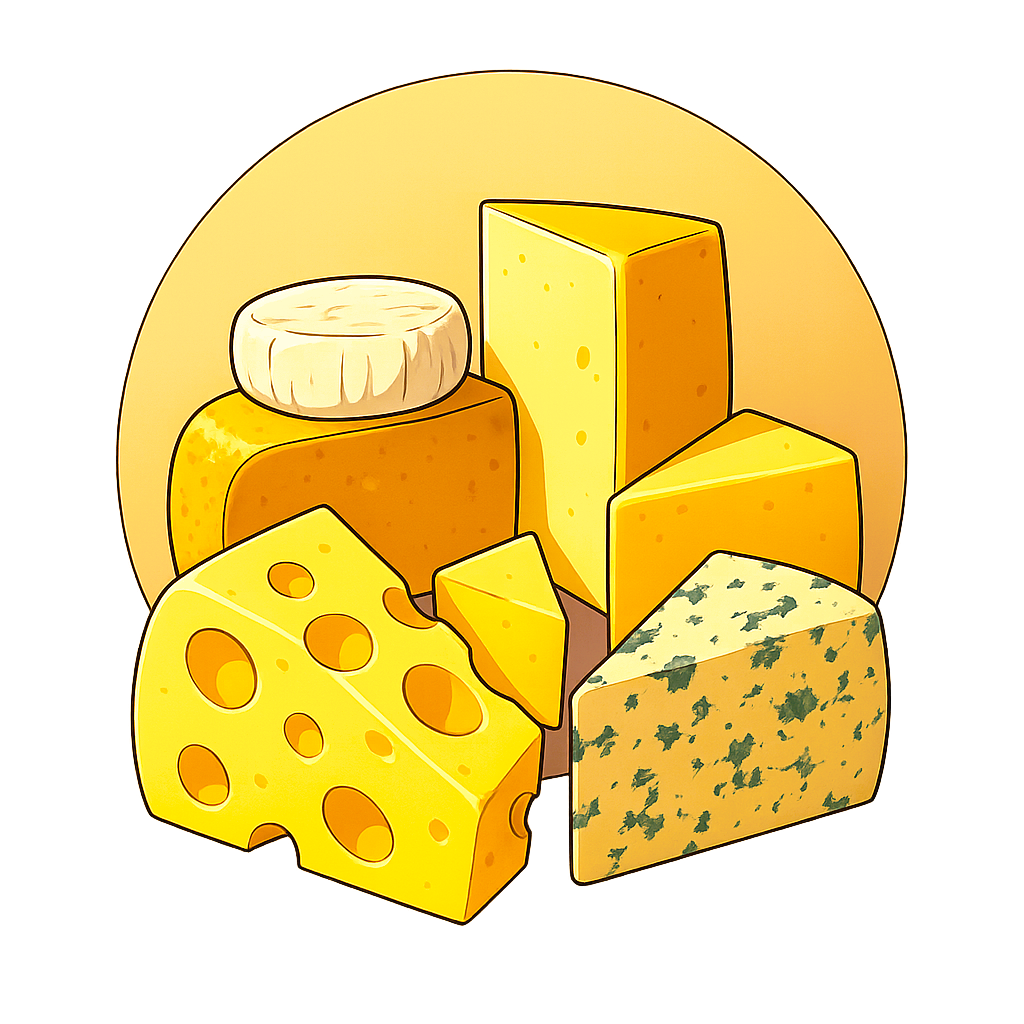
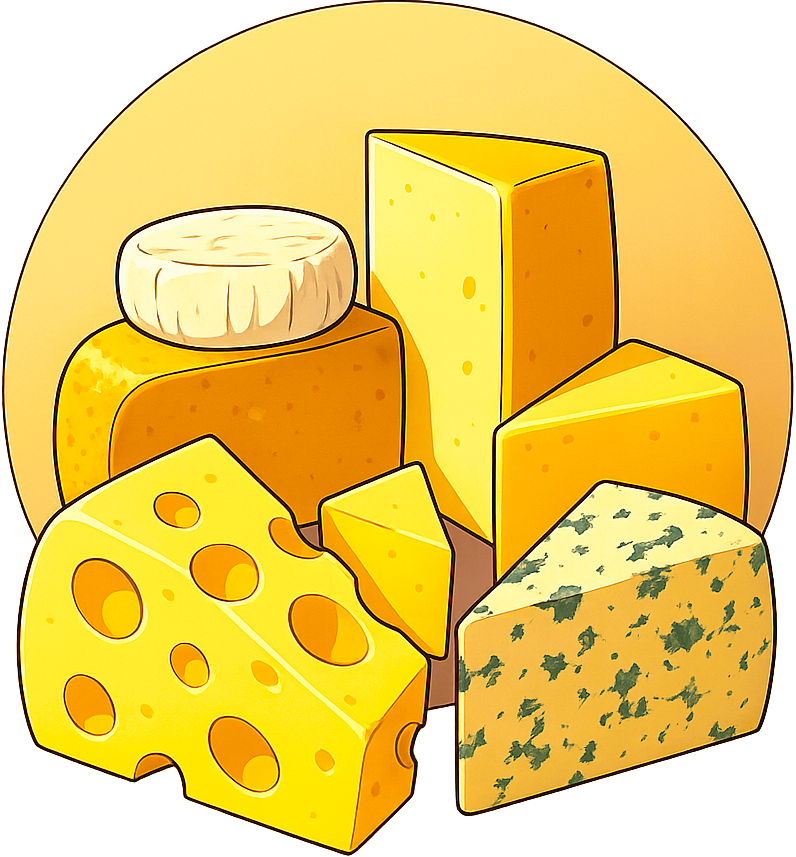
cropped backdrop image and fixed media queries in landing page max-width > min-width

diff --git a/app/assets/stylesheets/application.css b/app/assets/stylesheets/application.css
@@ -120,12 +120,12 @@ footer {
 }
 
 #cheese-backdrop {
-  height: 45%;
+  height: 40%;
 }
 
-@media screen and (max-width: 768px) {
+@media screen and (min-width: 768px) {
   #cheese-backdrop {
-    height: 70%;
+    height: 65%;
   }
 }
 
@@ -137,7 +137,7 @@ footer {
   letter-spacing: -1px;
 }
 
-@media screen and (max-width: 768px) {
+@media screen and (min-width: 768px) {
   #title-name {
     font-size: 3rem;
   }
@@ -152,7 +152,7 @@ footer {
   line-height: 1.5;
 }
 
-@media screen and (max-width: 768px) {
+@media screen and (min-width: 768px) {
   #title-description {
     font-size: 1.25rem;
   }
